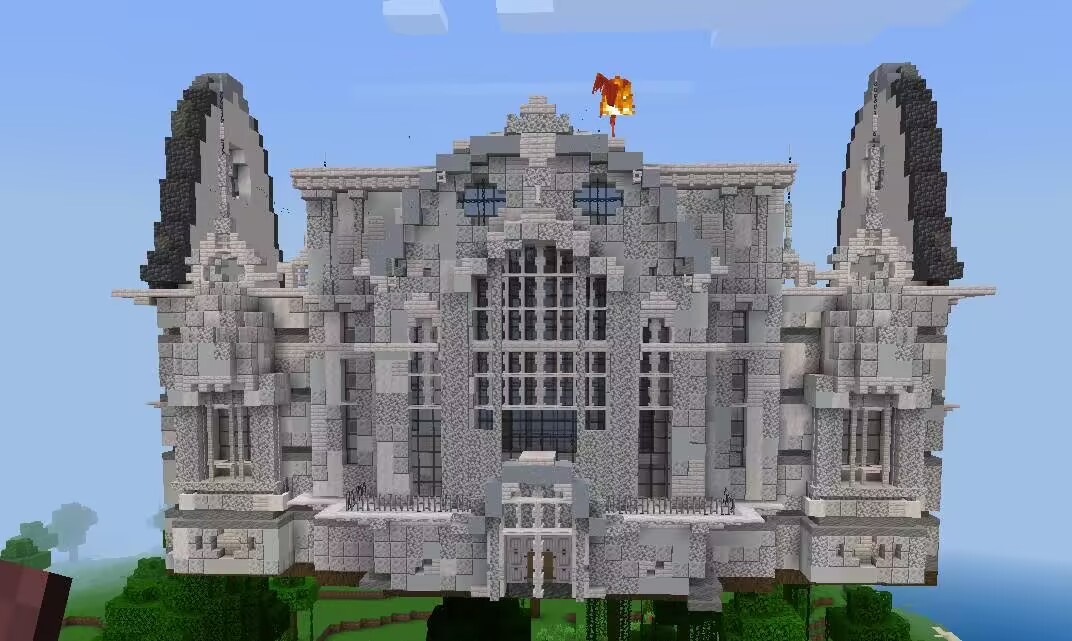
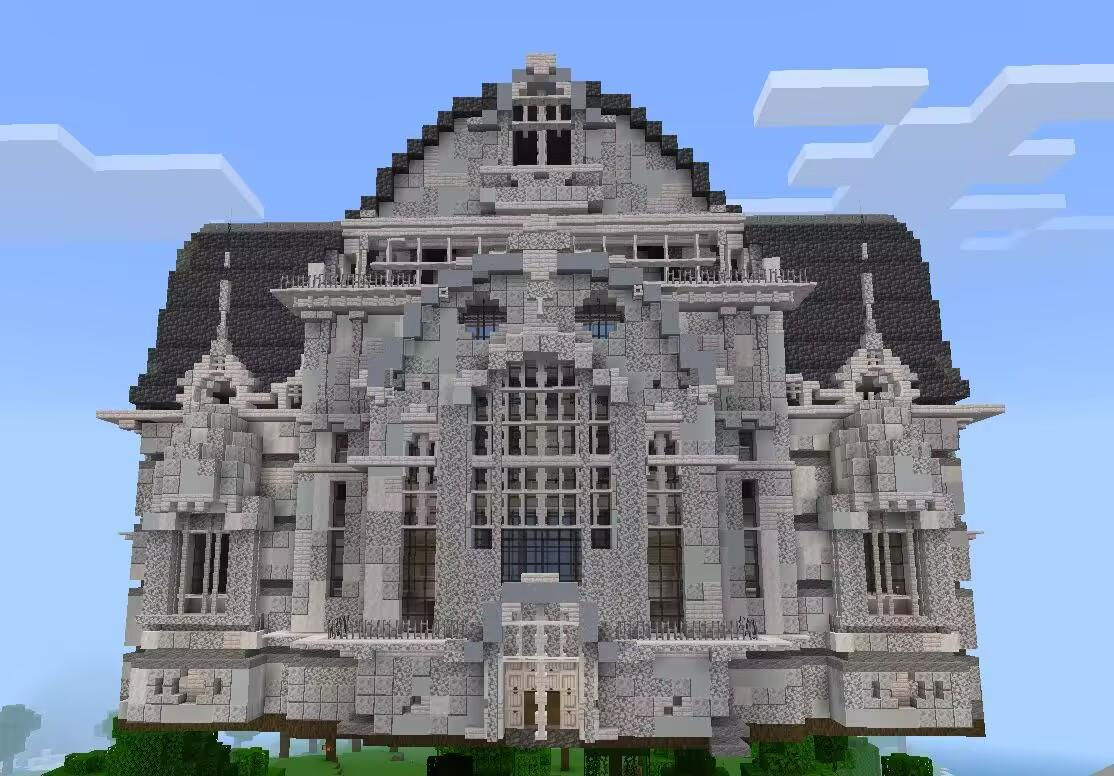
替换首屏图片为灰白色欧式石砌大厦

diff --git a/index.html b/index.html
@@ -276,7 +276,7 @@
           </div>
         </div>
         <div class="hero-right">
-          <img src="hero-castle.jpg" alt="潮汐聚澜工会主基地——石制城堡建筑，顶部飘扬工会旗帜" loading="eager" />
+          <img src="hero-castle.jpg?v=2" alt="潮汐聚澜工会建筑——灰白色欧式石砌大厦，细节精致" loading="eager" />
         </div>
       </div>
       <!-- 底部双层海浪装饰 -->
